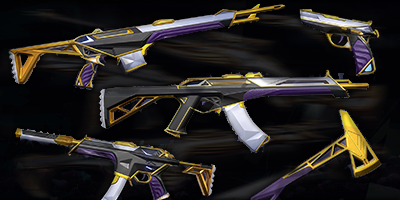
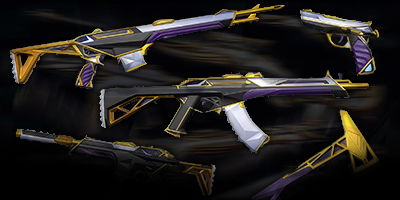
new ad

diff --git a/src/components/sniper.js b/src/components/sniper.js
@@ -39,7 +39,7 @@ class Sniper extends Component {
           </Card>
 
           { /* AD */ }
-          <Card shadow = {0} style= {{minWidth: '400px', maxWidth: '400px' ,margin: 'auto', background: 'url(https://raw.githubusercontent.com/thulka2/valorskins/master/src/displays/Other/ad.png) center'}}>
+          <Card shadow = {0} style= {{minWidth: '400px', maxWidth: '400px' ,margin: 'auto', background: 'url(https://raw.githubusercontent.com/thulka2/valorskins/master/src/displays/Other/kahzekad.png) center'}}>
           </Card>
 
 

diff --git a/src/components/home.js b/src/components/home.js
@@ -30,7 +30,7 @@ class Home extends Component {
           <Card shadow = {5} style= {{minWidth: '400px', maxWidth: '400px' ,margin: 'auto', backgroundColor: '#141617'}}>
 
           <CardTitle style={{color: '#fe0468', height: '200px', background: 'url(https://cdn.discordapp.com/attachments/489291942958596106/743626211464314950/hivemindsword-display.png) center'}}>
-           Hivemind Sword
+           <Link to="/knife"> Hivemind Sword </Link>
 
 
           </CardTitle>

diff --git a/src/App.js b/src/App.js
@@ -31,7 +31,7 @@ import {ReactComponent as OdinIcon} from './icons/Odin.svg';
 import {ReactComponent as KnifeIcon} from './icons/Knife.svg';
 
 import {ReactComponent as HomeIcon} from './artwork/192icon.png';
-import {ReactComponent as Arrow1Icon} from './icons/Arrow1.svg';
+import {ReactComponent as Arrow1Icon} from './icons/rightarrow.svg';
 
 
 import {ReactComponent as BreachIcon} from './icons/Breach.svg';
